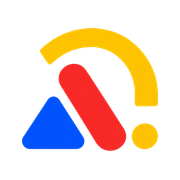
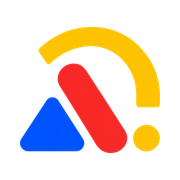
fix(identidade): ícones da Ávila sobre fundo branco e teste na regra nova
O commit anterior trocou os ícones mas deixou o teste na regra antiga
(fundo azul, desenho branco) e os ícones de tela de início com
transparência, que o iPhone pinta de preto. Agora: marca da Ávila sobre
branco opaco nos ícones de celular; só o da aba do navegador é
transparente. O teste confere isso e a área segura do mascarável.

Claude-Session: https://claude.ai/code/session_01MPuKHXAgzGWVybvDbrLbXk

diff --git a/tests/app-install.test.ts b/tests/app-install.test.ts
@@ -4,7 +4,7 @@ import { test } from "node:test";
 import { fileURLToPath } from "node:url";
 import sharp from "sharp";
 import manifest from "@/app/manifest";
-import { APP_DESCRIPTION, APP_ICONS, APP_NAME, APP_SHORT_NAME, BACKGROUND_COLOR, ICON_COLOR, THEME_COLOR } from "@/lib/app-identity";
+import { APP_DESCRIPTION, APP_ICONS, APP_NAME, APP_SHORT_NAME, BACKGROUND_COLOR, ICON_BACKGROUND, ICON_COLOR, THEME_COLOR } from "@/lib/app-identity";
 
 const ROOT = fileURLToPath(new URL("../", import.meta.url));
 const read = (file: string) => readFileSync(`${ROOT}${file}`, "utf8");
@@ -60,9 +60,9 @@ test("manifesto: instalável, em tela cheia, com os ícones que existem em publi
   assert.deepEqual([...new Set((icons ?? []).map((icon) => icon.sizes))], ["192x192", "512x512"]);
 });
 
-test("ícones: PNG quadrado do tamanho declarado, sem transparência e com o fundo da marca", async () => {
-  const [red, green, blue] = rgb(ICON_COLOR);
-  for (const { file, size, maskable } of APP_ICONS) {
+test("ícones: PNG quadrado do tamanho declarado, a marca da Ávila sobre fundo branco, sem transparência fora da aba do navegador", async () => {
+  const [red, green, blue] = rgb(ICON_BACKGROUND);
+  for (const { file, size, maskable, transparent = false } of APP_ICONS) {
     const image = sharp(`${ROOT}${file}`);
     const { format, width, height } = await image.metadata();
     assert.deepEqual({ format, width, height }, { format: "png", width: size, height: size }, file);
@@ -70,18 +70,18 @@ test("ícones: PNG quadrado do tamanho declarado, sem transparência e com o fun
     assert.equal(pixels.length, size * size * 4, file);
     // O mascarável é cortado pelo celular: fora do quadrado central de 60% só pode haver fundo.
     const edge = maskable ? Math.ceil(size * 0.2) : 1;
-    let white = 0;
+    let drawn = 0;
     for (let at = 0; at < pixels.length; at += 4) {
       const x = (at / 4) % size;
       const y = Math.floor(at / 4 / size);
       // Transparência vira fundo preto na tela de início do iPhone.
-      if (pixels[at + 3] !== 255) assert.fail(`${file}: pixel transparente em ${x},${y}`);
-      const background = pixels[at] === red && pixels[at + 1] === green && pixels[at + 2] === blue;
+      if (!transparent && pixels[at + 3] !== 255) assert.fail(`${file}: pixel transparente em ${x},${y}`);
+      const background = transparent ? pixels[at + 3] === 0 : pixels[at] === red && pixels[at + 1] === green && pixels[at + 2] === blue;
       const outside = x < edge || y < edge || x >= size - edge || y >= size - edge;
       if (outside && !background) assert.fail(`${file}: desenho fora da área segura em ${x},${y}`);
-      if (!outside && pixels[at] === 255 && pixels[at + 1] === 255 && pixels[at + 2] === 255) white += 1;
+      if (!outside && !background) drawn += 1;
     }
-    assert.ok(white > 0, `${file}: sem desenho`);
+    assert.ok(drawn > 0, `${file}: sem desenho`);
   }
   // Nada além dos ícones é servido sem sessão a partir de public.
   assert.deepEqual(files("public").sort(), APP_ICONS.map(({ file }) => file).filter((file) => file.startsWith("public/")).sort());

diff --git a/src/lib/app-identity.ts b/src/lib/app-identity.ts
@@ -8,11 +8,13 @@ export const APP_NAME = "ERP · Ávila Ops";
 export const APP_SHORT_NAME = "ERP";
 export const APP_DESCRIPTION = "Sistema comercial.";
 
-/** The system bar of the installed application: the brand colour, the one the icons are filled with. */
+/** The system bar of the installed application: the brand colour of the screens. */
 export const THEME_COLOR = "#2c49a8";
 /** The screen shown while the application opens: the background of the page. */
 export const BACKGROUND_COLOR = "#edefeb";
 export const ICON_COLOR = "#2c49a8";
+/** What is behind the Ávila mark in the icons: the mark has its own colours, so the fill is white. */
+export const ICON_BACKGROUND = "#ffffff";
 
 export type AppIcon = {
   /** Where the file is in the repository. */
@@ -21,6 +23,8 @@ export type AppIcon = {
   size: number;
   /** A maskable icon is cut by the phone into a circle or a rounded square: its drawing stays in the safe area. */
   maskable: boolean;
+  /** Only the icon of the browser tab: on the home screen of a phone, transparency turns black. */
+  transparent?: boolean;
 };
 
 /** Every icon of the application. The ones under `src/app` are served by Next's file convention (`/icon.png`, `/apple-icon.png`). */
@@ -29,5 +33,5 @@ export const APP_ICONS: AppIcon[] = [
   { file: "public/icons/icon-512.png", size: 512, maskable: false },
   { file: "public/icons/icon-maskable-512.png", size: 512, maskable: true },
   { file: "src/app/apple-icon.png", size: 180, maskable: false },
-  { file: "src/app/icon.png", size: 64, maskable: false },
+  { file: "src/app/icon.png", size: 64, maskable: false, transparent: true },
 ];
